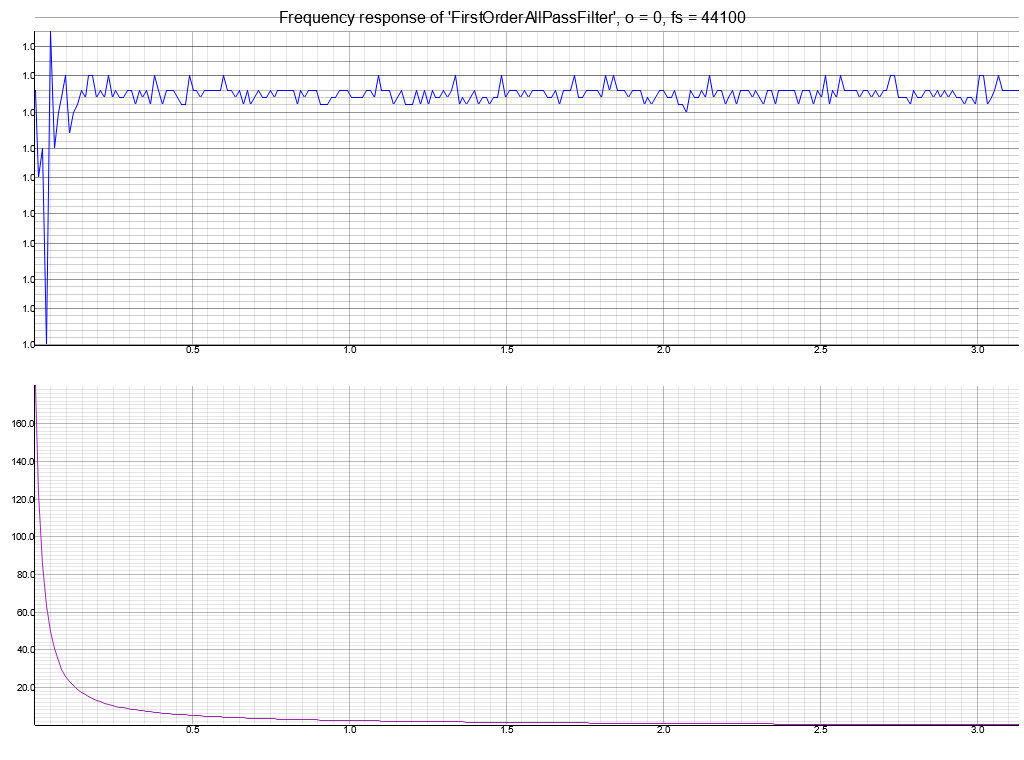
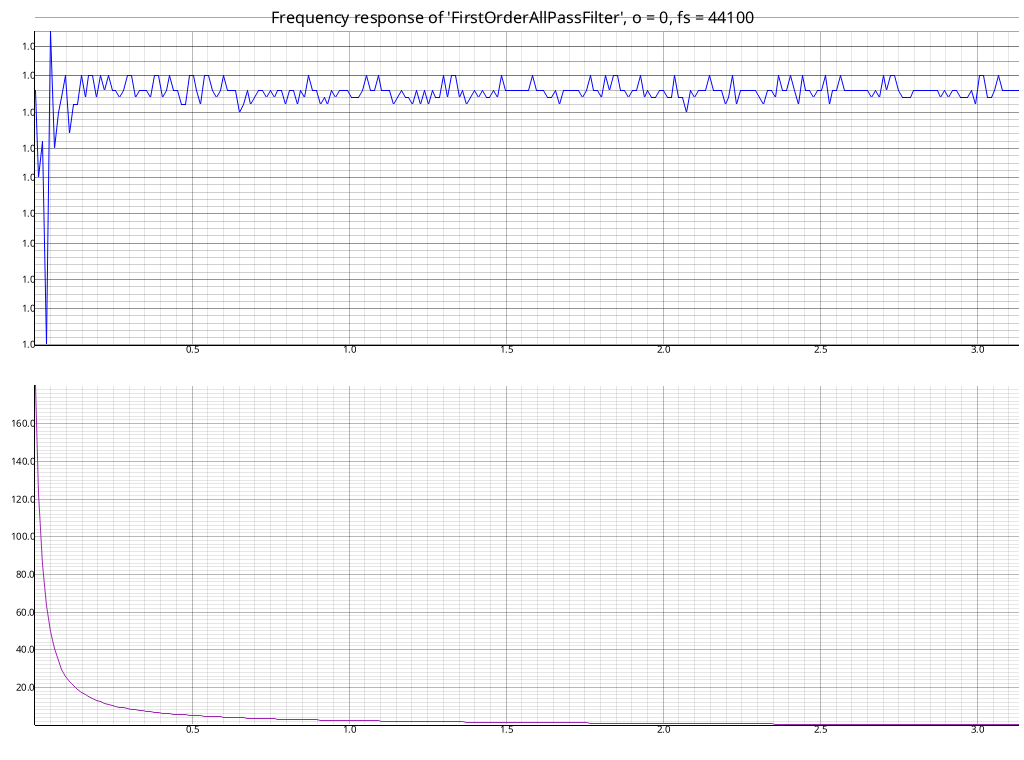
Fix first order all pass

diff --git a/src/param/param/first_order_all_pass.rs b/src/param/param/first_order_all_pass.rs
@@ -1,4 +1,4 @@
-use crate::{conf::{All, AllPass, Conf}, param::FirstOrderAllPassFilterParamBase, params::TauVal, util::same::Same};
+use crate::{conf::{All, AllPass, Conf}, param::{FirstOrderAllPassFilterParamBase, TauVal}, util::same::Same};
 
 pub trait FirstOrderAllPassFilterParam<
     C,
@@ -57,7 +57,7 @@ impl_composite_conf!(All: AllPass);
 
 mod private
 {
-    use crate::{filters::iir::first::FirstOrderAllPassFilter, params::Tau, rtf::Rtf};
+    use crate::params::Tau;
 
     use super::{FirstOrderAllPassFilterConf, FirstOrderAllPassFilterParam};
 
@@ -81,10 +81,7 @@ mod private
             Conf = CC::Conf
         >,
         Tau<f64>: FirstOrderAllPassFilterParam<CC, Conf = CC>,
-        Tau<f32>: FirstOrderAllPassFilterParam<CC, Conf = CC>,
-        FirstOrderAllPassFilter<f64, Tau<f64>, C>: Rtf,
-        FirstOrderAllPassFilter<f32, Tau<f32>, C>: Rtf,
-        [(); <<CC as FirstOrderAllPassFilterConf>::Conf as FirstOrderAllPassFilterConf>::OUTPUTS]:
+        Tau<f32>: FirstOrderAllPassFilterParam<CC, Conf = CC>
     {
 
     }

diff --git a/src/filters/iir/first/first_order_all_pass_filter.rs b/src/filters/iir/first/first_order_all_pass_filter.rs
@@ -1,4 +1,4 @@
-use crate::{conf::All, param::{FirstOrderAllPassFilterConf, FirstOrderAllPassFilterParam}, params::Tau, real_time_fir_iir_filters};
+use crate::{conf::All, param::{FirstOrderAllPassFilterConf, FirstOrderAllPassFilterParam, TauVal}, params::Tau, real_time_fir_iir_filters};
 
 crate::def_rtf!(
     {
@@ -27,7 +27,7 @@ crate::def_rtf!(
 
         fn make_coeffs<All>(param, rate) -> _
         {
-            let tau = param.tau();
+            let TauVal {tau} = param.tau();
             let tau_rate = tau*rate;
             let two_tau_rate = tau_rate + tau_rate;
             let one = F::one();
@@ -59,7 +59,7 @@ mod test
     #[test]
     fn plot()
     {
-        let mut filter = FirstOrderAllPassFilter::new::<All>(Tau::new(0.001));
+        let mut filter = FirstOrderAllPassFilter::<_, _, All>::new(Tau::new(0.001));
         crate::tests::plot_freq(&mut filter, false).unwrap();
     }
 }

diff --git a/src/params/tau.rs b/src/params/tau.rs
@@ -1,8 +1,8 @@
 use crate::real_time_fir_iir_filters;
-use crate::param::{FilterFloat, FilterParam, FirstOrderAllPassFilterConf, FirstOrderAllPassFilterParam, FirstOrderAllPassFilterParamBase};
+use crate::param::{FilterFloat, FilterParam, FirstOrderAllPassFilterConf, FirstOrderAllPassFilterParam, FirstOrderAllPassFilterParamBase, TauVal};
 
 crate::def_param!(
-    Tau(TauVal)<F> {
+    Tau<F> {
         tau: F
     }
     where

diff --git a/src/param/val/mod.rs b/src/param/val/mod.rs
@@ -6,6 +6,7 @@ moddef::moddef!(
         omega for cfg(feature = "param_omega"),
         omega2_zeta for cfg(feature = "param_omega2_zeta"),
         pi for cfg(feature = "param_pi"),
-        pid for cfg(feature = "param_pid")
+        pid for cfg(feature = "param_pid"),
+        tau for cfg(feature = "param_tau")
     }
 );

diff --git a/src/param/val/tau.rs b/src/param/val/tau.rs
@@ -1,0 +1,8 @@
+use num::Float;
+
+pub struct TauVal<F>
+where
+    F: Float
+{
+    pub tau: F
+}
